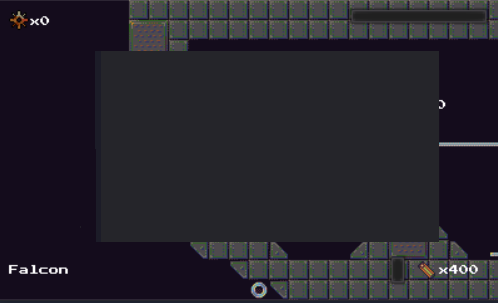
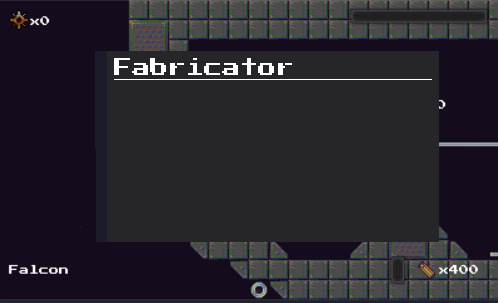
Started on shop menu

Changed region(s): [[0.2108, 0.1782, 0.8434, 0.2673]]

diff --git a/proto_sheet/Prototypes/Prototype01/Prototype01.tex b/proto_sheet/Prototypes/Prototype01/Prototype01.tex
@@ -94,6 +94,12 @@ This section focuses on the user interface that will be present in the first pro
 
 \subsubsection{Shop Menu}
 
+\begin{figure}[H]
+	\centering
+	\includegraphics[width=\columnwidth]{Figures/ShopMenu.png}
+	\caption{Shop menu}
+\end{figure}
+
 \subsection{Game Art}
 
 The art in Steel Purge will currently be purely pixel art. For Prototype 1, the art will consist of somewhat altered free pixel art ripped from itch.io. There will also exist some custom art for the relevant areas, such as weapons. The following list will show the required art elements:
